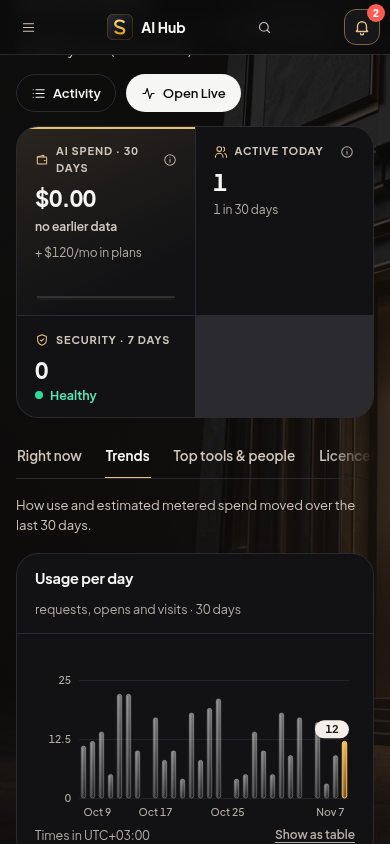
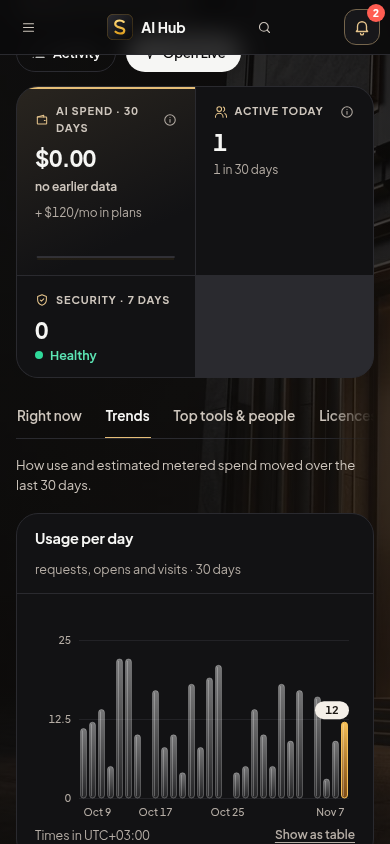
Charts: tube bars handle empty data, scale exactly, keep the tooltip off the value label
SUI.columns returns the shared empty state for no rows instead of throwing. Bar height is exactly proportional to the value (1px floor for a non-zero day) and the cap radius follows the bar's own size. Tubes are wider and the chart taller. The hover tooltip is anchored above the floating value label. The check measures a real layout shift and verifies proportional heights, the empty state and the tooltip/label overlap.

diff --git a/gateway/static/ui.js b/gateway/static/ui.js
@@ -485,7 +485,8 @@
       onActive(i);
       const r = svg.getBoundingClientRect();
       const x = clientX !== undefined ? clientX : r.left + xs(i);
-      showTip(svg, chartTipContent(o.data[i], o), x, clientY !== undefined ? clientY : r.top + 12);
+      const anchor = o.tipY ? r.top + o.tipY(i) : clientY !== undefined ? clientY : r.top + 12;
+      showTip(svg, chartTipContent(o.data[i], o), x, anchor);
     };
     const hide = () => { active = -1; onActive(-1); hideTip(svg); };
     svg.addEventListener("pointermove", (e) => {
@@ -514,7 +515,8 @@
      the tooltip, the arrow-key reading and the table view. One series, so no legend: the title names it.
      data: [{label, short, value, note}] */
   function columns(o) {
-    o = { height: 170, format: fmt.num, ...o };
+    o = { height: 210, format: fmt.num, ...o };
+    if (!o.data || !o.data.length) return stateBox({ icon: "info", compact: true, title: "No data yet", text: o.emptyText || "Nothing to chart for this period." });
     const uid = "u-tube-" + (++tubeSeq);
     let shown = false;   // bars grow from zero once, the first time the chart is in view
     return chartFrame(o, (w) => {
@@ -534,18 +536,22 @@
       const g = s("g");
       const ax = axes(g, o, w, h, pad, max);
       const band = (w - pad.l - pad.r) / n;
-      const bw = Math.max(4, Math.min(18, band * 0.5));
+      const bw = Math.max(4, Math.min(24, band * 0.66));
       const xs = (i) => pad.l + band * i + band / 2;
       const base = h - pad.b;
       const tubes = s("g", { class: "tubes" });
       const bars = [], hi = [];
       o.data.forEach((d, i) => {
         const v = d.value || 0;
-        const bh = v > 0 ? Math.max(bw, (base - pad.t) * v / max) : 0;
+        // height is exactly proportional to the value (a 1px floor only so a non-zero day can be seen); the cap is
+        // rounded to the bar's own size so a short bar is a small rounded stub, not a taller one
+        const bh = v > 0 ? Math.max(1, (base - pad.t) * v / max) : 0;
         const x = xs(i) - bw / 2;
-        const bar = s("rect", { class: "col", x, y: base - bh, width: bw, height: bh, rx: bw / 2 });
+        const rr = Math.min(bw / 2, bh / 2);
+        const bar = s("rect", { class: "col", x, y: base - bh, width: bw, height: bh, rx: rr });
         bar.style.fill = `url(#${uid}-g)`;
-        const glow = s("rect", { class: "col-hi", x: x + bw * 0.22, y: base - bh + bw * 0.28, width: Math.max(1, bw * 0.18), height: Math.max(0, bh - bw * 0.56), rx: Math.max(.5, bw * 0.09) });
+        const glow = s("rect", { class: "col-hi", x: x + bw * 0.22, y: base - bh + rr * 0.6, width: Math.max(1, bw * 0.18), height: Math.max(0, bh - rr * 1.2), rx: Math.max(.5, bw * 0.09) });
+        if (bh < bw * 1.3) glow.setAttribute("display", "none");
         const wrap = s("g", { class: "tube" });
         wrap.append(bar, glow);
         wrap.style.setProperty("--i", i);   // CSSOM, not a style attribute: the page CSP refuses inline style attributes
@@ -579,7 +585,7 @@
       };
       select(-1);
       requestAnimationFrame(() => requestAnimationFrame(() => label.classList.add("ready")));
-      interact(svg, o, xs, n, select);
+      interact(svg, { ...o, tipY: (i) => Math.max(14, Number(bars[i < 0 ? n - 1 : i].getAttribute("y")) - 8) - 13 - 2 }, xs, n, select);
       if (!shown) {
         if (typeof IntersectionObserver !== "undefined" && calmMotion()) {
           svg.classList.add("grow");

diff --git a/docs/screenshots/glass-r5/README.md b/docs/screenshots/glass-r5/README.md
@@ -6,9 +6,16 @@ Regenerate: `node docs/screenshots/glass-r5/check.cjs` (Playwright and Chrome; s
 
 The history in the shots is synthetic: `demo_history.py` adds 30 days of invented tool opens to a throwaway test database. The chart itself reads the real `/trends` series; nothing is faked client-side.
 
+## Fixes after Probe's review of 42ce9b7 (ui.js only; CSS pending release)
+- Empty data: `SUI.columns` with no rows now returns the shared empty state ("No data yet") instead of throwing.
+- Height is exactly proportional to the value (a 1px floor only so a non-zero day is visible); the cap radius is `min(width, height) / 2`, so a short bar is a small rounded stub, not a taller one. The check compares every bar to the table view's values (max error 0.00 px).
+- Tubes are wider (about 66% of the day's slot, up to 24 px) and the chart is taller (210 px by default). At 1440 wide the 30-day chart in a half-width panel gives 10 px tubes.
+- The hover tooltip is anchored above the floating value label, so the two no longer overlap (checked by bounding boxes).
+- The harness now measures a real CLS (layout-shift entries from the first frame) instead of `null`; it reads 0 on every run.
+- Not done yet, needs `ui.css`: the contrast of the tube rim and the current bar (Probe: dark rim 2.11:1, light rim and current bar below 3:1). Proposed values are in the PR description.
+
 ## Differences still left versus the reference
-- The reference tubes are about 12 px wide and tall (a full-width revenue panel); the 30-day usage chart is 170 px high with thinner tubes, so it reads smaller.
+- The reference tubes are wider and taller still (a full-width revenue panel); the 30-day usage chart lives in a half-width panel.
 - Tube fill is a plain translucent gradient plus a thin highlight; there is no blurred top glow (a filter per bar would cost frames on this laptop).
-- The tooltip stays (it carries the date and the breakdown), so on hover it can cover the floating value label.
 - The light theme tubes are warm grey rather than frosted white.
 - Only `SUI.columns` changed; `SUI.line` and the ranked bars keep their look (the donut and gauge are not part of R5).
